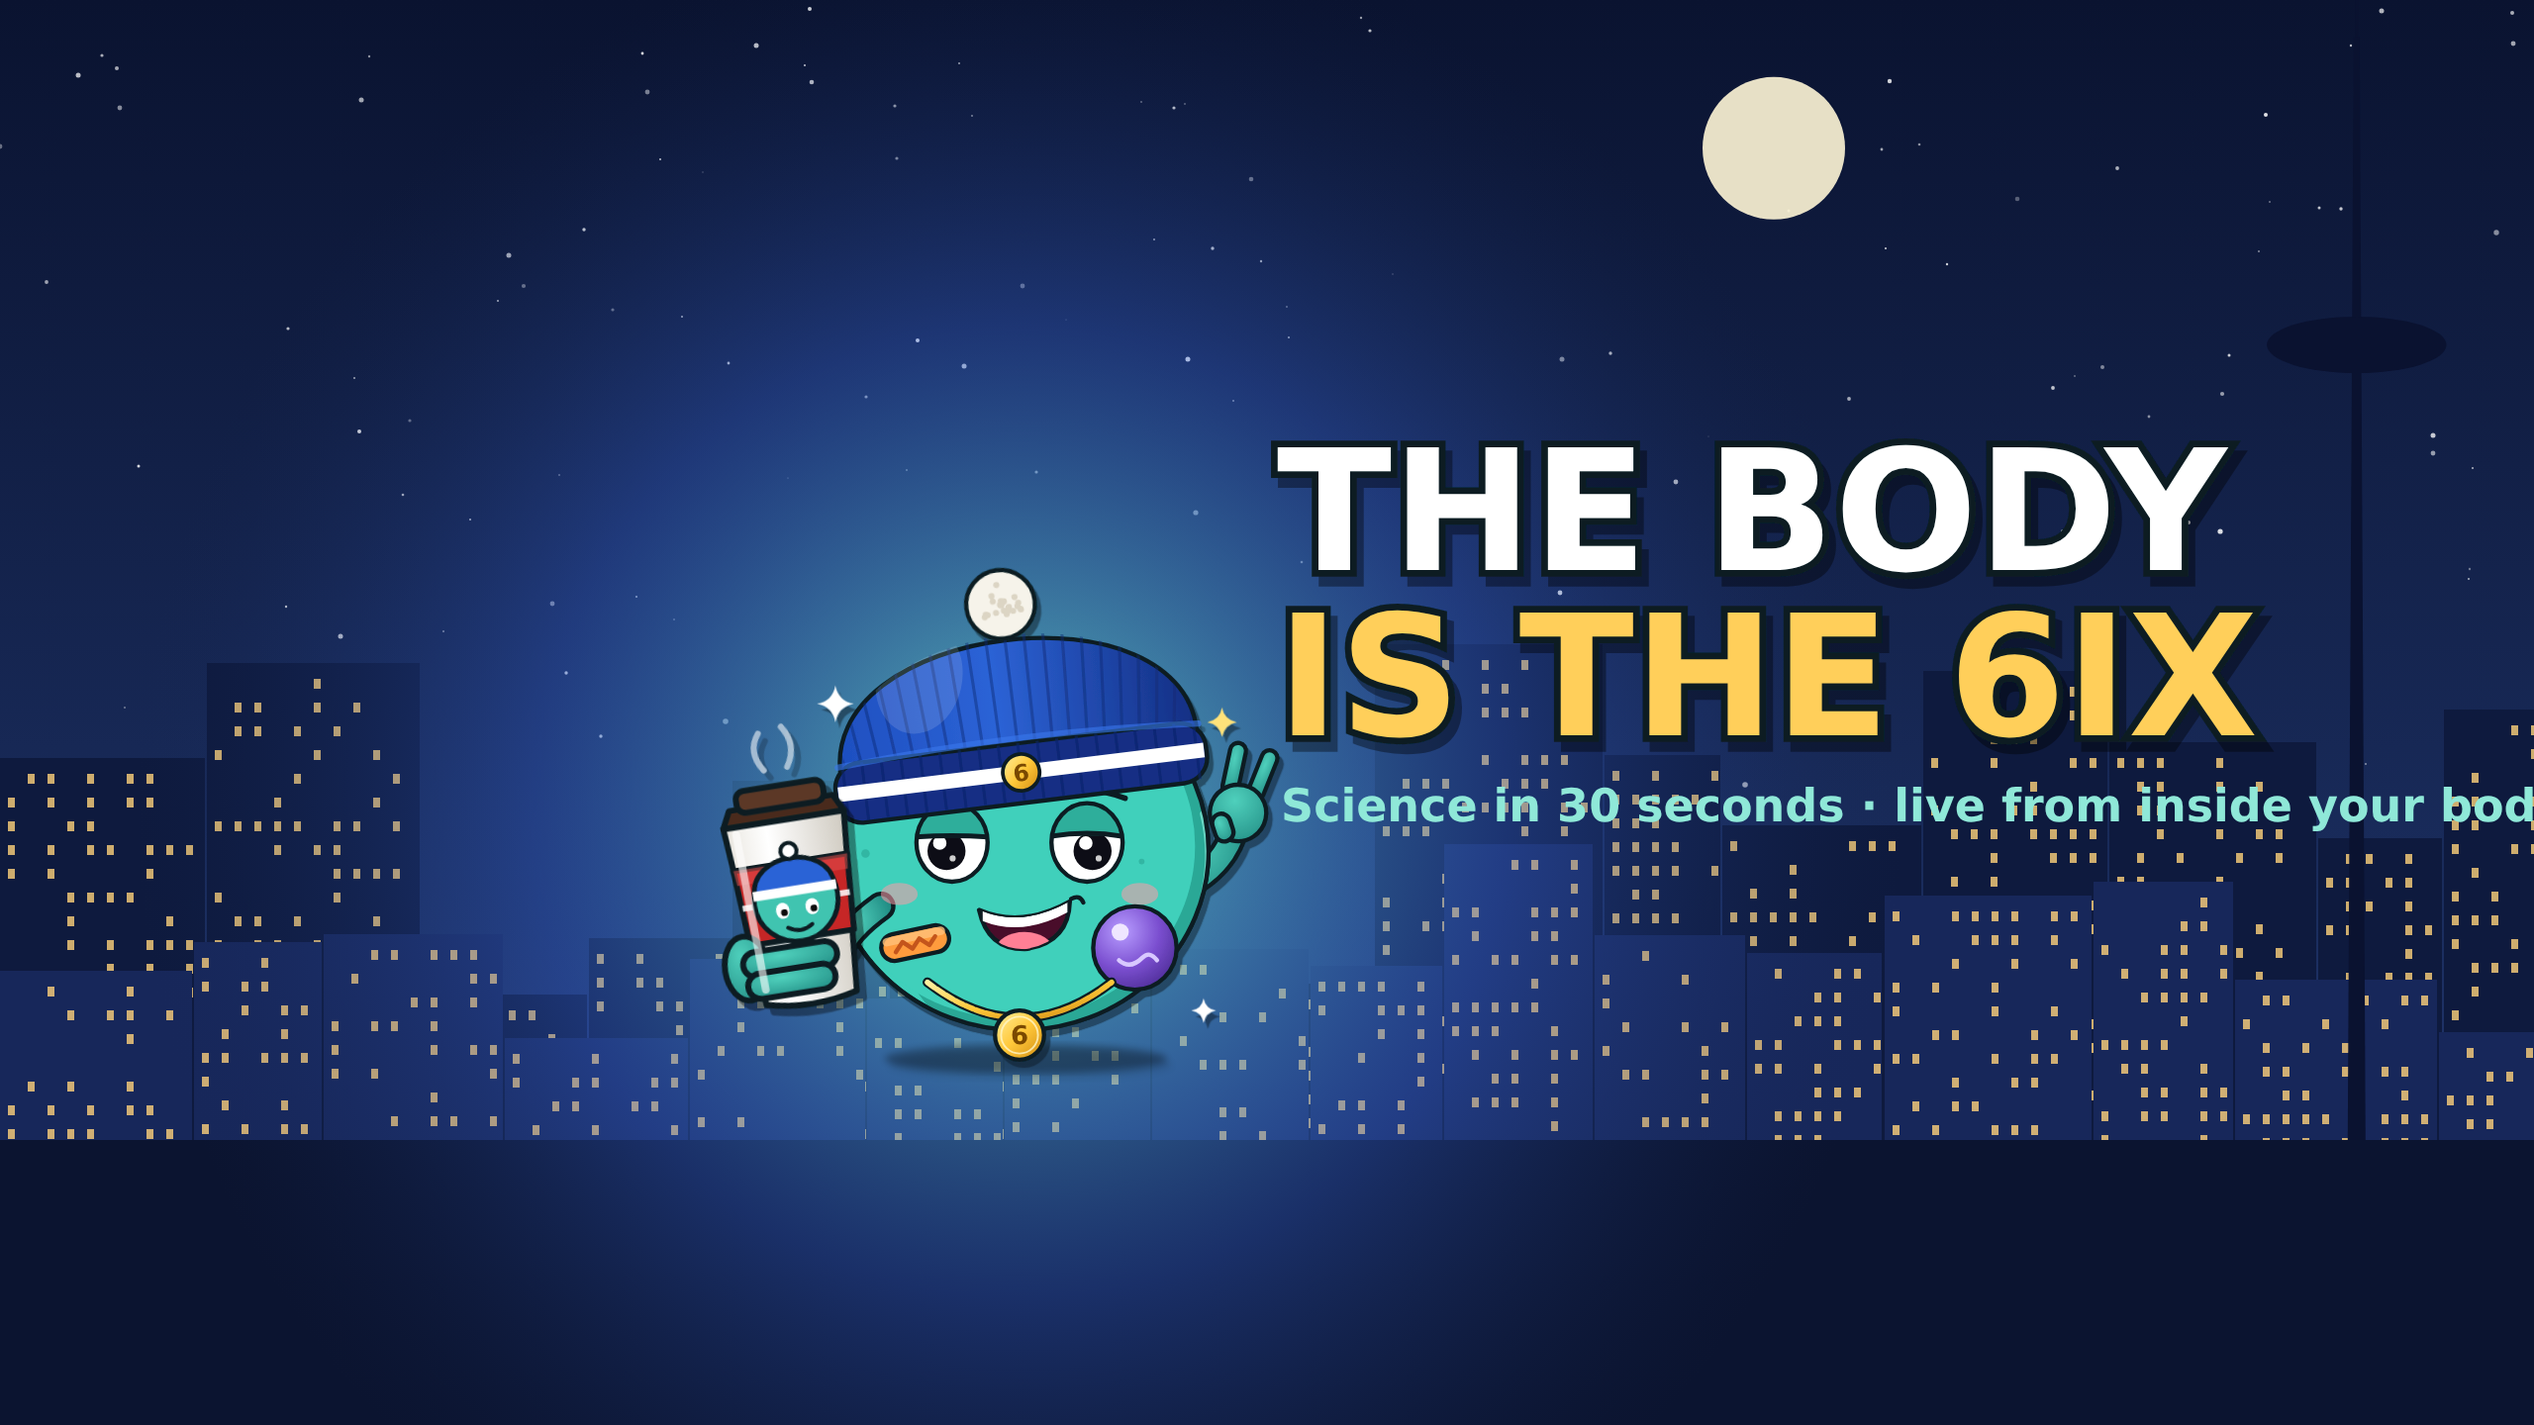
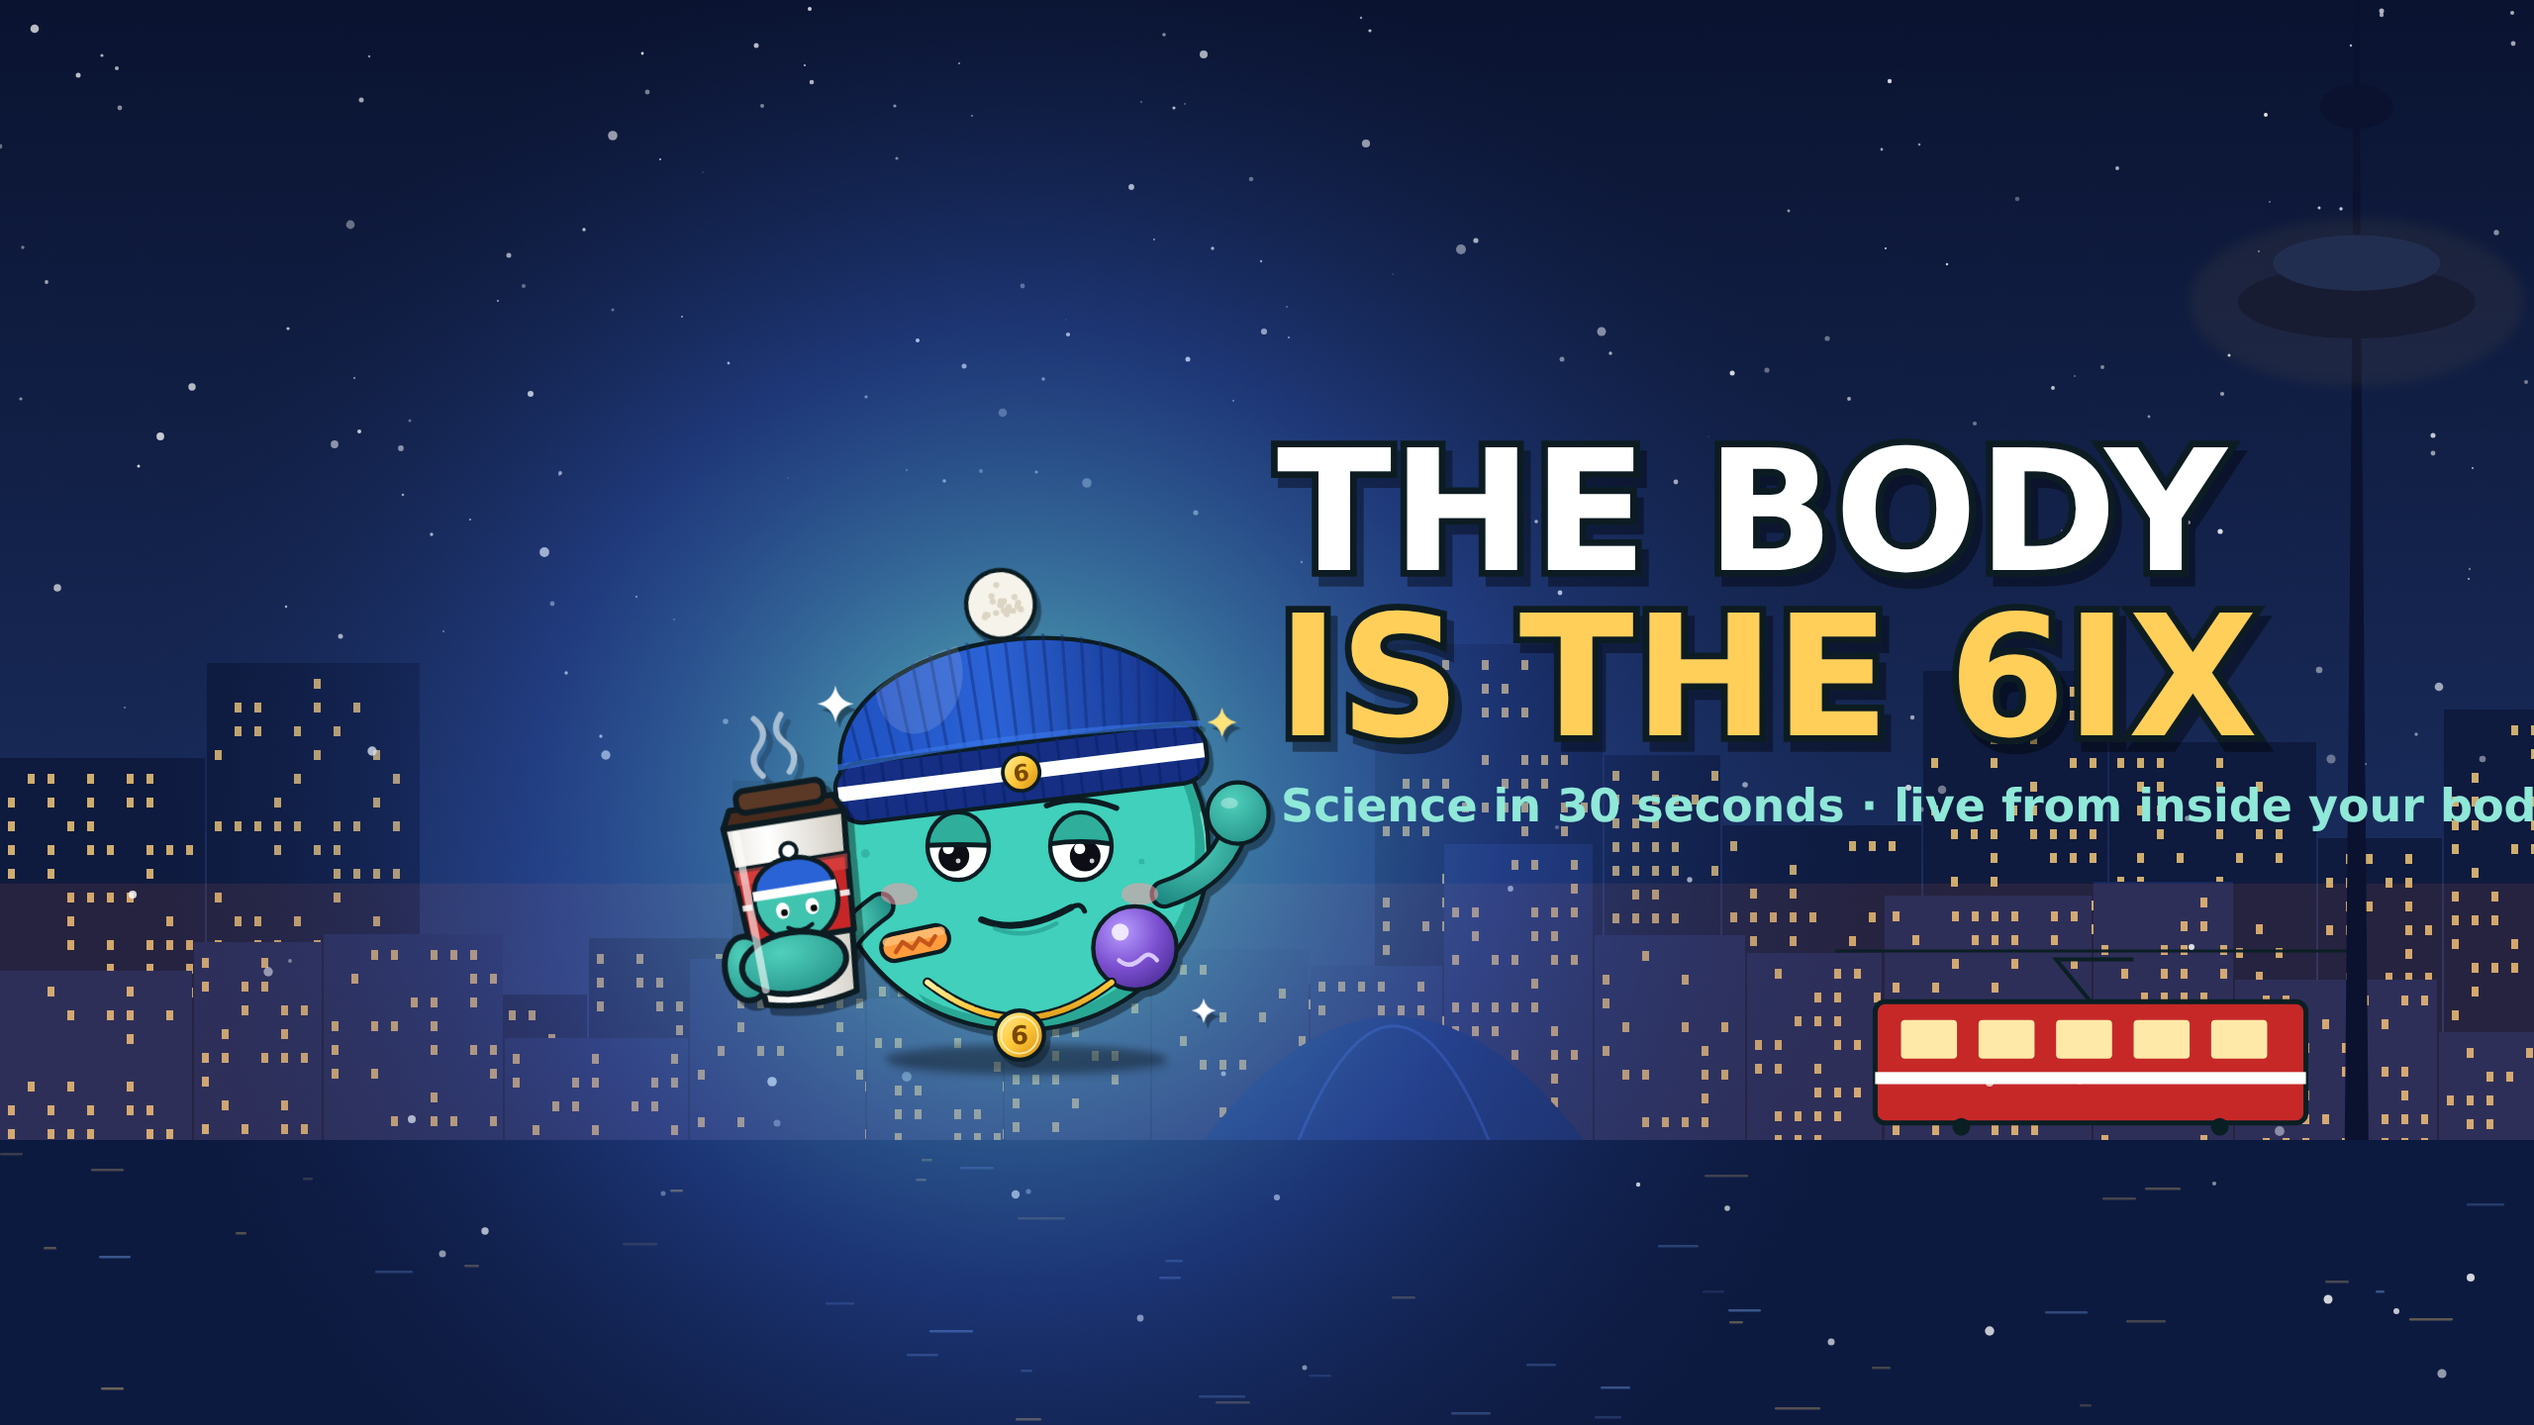
Rebrand v2.2: no fingers, calmer smirk, Toronto skyline (CN Tower, dome, streetcar, lake, snow)
Claude-Session: https://claude.ai/code/session_01YLZ2csSozvptdvtP7YVaK8

diff --git a/studio/branding/rebrand-v2/cyto2d.js b/studio/branding/rebrand-v2/cyto2d.js
@@ -21,16 +21,16 @@ const O='stroke="#0a1f24" stroke-width="7" stroke-linejoin="round" stroke-lineca
 function sparkle(x,y,r,c='#fff'){return `<path d="M${x} ${y-r} Q${x+r*.15} ${y-r*.15} ${x+r} ${y} Q${x+r*.15} ${y+r*.15} ${x} ${y+r} Q${x-r*.15} ${y+r*.15} ${x-r} ${y} Q${x-r*.15} ${y-r*.15} ${x} ${y-r}Z" fill="${c}"/>`}
 function eye(x,side){ // side -1 left, 1 right
  const id='e'+(side<0?'L':'R');
- return `<g transform="translate(${x},-14)">
- <clipPath id="${id}"><ellipse rx="58" ry="64"/></clipPath>
- <ellipse rx="58" ry="64" fill="#fff"/>
+ return `<g transform="translate(${x},-8)">
+ <clipPath id="${id}"><ellipse rx="50" ry="55"/></clipPath>
+ <ellipse rx="50" ry="55" fill="#fff"/>
  <g clip-path="url(#${id})">
-  <circle cx="${side*9}" cy="14" r="31" fill="#0b0b12"/><circle cx="${side*9-11}" cy="1" r="11" fill="#fff"/><circle cx="${side*9+10}" cy="26" r="5" fill="#fff" opacity=".8"/>
-  <path d="M-70 -80 L70 -80 L70 -6 Q0 -${14+side*4} -70 -6Z" fill="#2fae9b"/>
-  <path d="M-70 -8 Q0 ${-18-side*4} 70 -8" fill="none" stroke="#0a1f24" stroke-width="8"/>
+  <circle cx="${side*7}" cy="16" r="25" fill="#0b0b12"/><circle cx="${side*7-9}" cy="4" r="9" fill="#fff"/><circle cx="${side*9+9}" cy="24" r="4" fill="#fff" opacity=".8"/>
+  <path d="M-70 -80 L70 -80 L70 2 Q0 ${-8-side*5} -70 2Z" fill="#2fae9b"/>
+  <path d="M-70 0 Q0 ${-10-side*5} 70 0" fill="none" stroke="#0a1f24" stroke-width="8"/>
  </g>
- <ellipse rx="58" ry="64" fill="none" ${O}/>
- <path d="M-60 -78 Q0 ${side<0?-112:-96} 62 ${side<0?-84:-72}" fill="none" stroke="#0a1f24" stroke-width="9" stroke-linecap="round"/>
+ <ellipse rx="50" ry="55" fill="none" ${O}/>
+ <path d="M-56 -66 Q0 ${side<0?-98:-86} 58 ${side<0?-72:-62}" fill="none" stroke="#0a1f24" stroke-width="9" stroke-linecap="round"/>
 </g>`}
 function cup(){return `<g transform="translate(-362,92) rotate(-9) scale(1.38)" filter="url(#cut)">
  <path d="M-72 -105 L72 -105 L54 108 Q0 122 -54 108Z" fill="url(#cupw)" ${O}/>
@@ -39,12 +39,12 @@ function cup(){return `<g transform="translate(-362,92) rotate(-9) scale(1.38)" 
  <rect x="-64" y="-12" width="128" height="7" fill="#fff" opacity=".85"/>
  <path d="M-62 -125 L62 -125 L72 -105 L-72 -105Z" fill="#4a2c1f" ${O}/>
  <rect x="-52" y="-146" width="104" height="26" rx="10" fill="#5c3827" ${O}/>
- <path d="M-14 -166 Q-30 -190 -14 -210 M14 -166 Q30 -190 14 -214" fill="none" stroke="#fff" stroke-width="7" stroke-linecap="round" opacity=".55"/>
+ <path d="M-16 -160 q-16 -18 0 -34 q16 -16 0 -34 M16 -160 q16 -18 0 -34 q-16 -16 0 -34" fill="none" stroke="#fff" stroke-width="7" stroke-linecap="round" opacity=".55"/>
  <g transform="translate(0,-10) scale(.8)"><circle r="62" fill="#3fc4b0" ${O}/>
   <path d="M-60 -12 C-60 -78 60 -78 60 -12Z" fill="#2c63d6" ${O}/><rect x="-62" y="-20" width="124" height="14" fill="#fff"/><circle cy="-72" r="12" fill="#fff" stroke="#0a1f24" stroke-width="6"/>
   <ellipse cx="-22" cy="14" rx="10" ry="12" fill="#fff"/><ellipse cx="22" cy="14" rx="10" ry="12" fill="#fff"/><circle cx="-20" cy="17" r="5" fill="#111"/><circle cx="24" cy="17" r="5" fill="#111"/>
   <path d="M-18 40 Q0 52 18 40" fill="none" stroke="#0a1f24" stroke-width="6" stroke-linecap="round"/></g>
- <g ${O} fill="url(#skinArm)"><ellipse cx="-70" cy="62" rx="26" ry="38"/><rect x="-74" y="44" width="112" height="30" rx="15"/><rect x="-72" y="70" width="104" height="30" rx="15"/></g>
+ <g ${O} fill="url(#skinArm)"><ellipse cx="-70" cy="62" rx="26" ry="38"/><ellipse cx="-14" cy="64" rx="62" ry="36"/></g>
  <path d="M-58 -96 L-52 90" stroke="#fff" stroke-width="9" stroke-linecap="round" opacity=".6"/>
 </g>`}
 function cyto(){
@@ -56,9 +56,6 @@ function cyto(){
  let pom=''; for(let i=0;i<24;i++){const a=rnd()*6.28,r=rnd()*34;pom+=`<circle cx="${(Math.cos(a)*r).toFixed(0)}" cy="${(Math.sin(a)*r).toFixed(0)}" r="5" fill="#dcd5c4"/>`}
  return `<g filter="url(#cut)">
  <ellipse cx="10" cy="338" rx="230" ry="24" fill="#000" opacity=".3" filter="url(#soft)"/>
- <!-- raised peace-sign arm (viewer right) -->
- <path d="M236 70 Q330 40 352 -40" fill="none" stroke="#0a1f24" stroke-width="48" stroke-linecap="round"/><path d="M236 70 Q330 40 352 -40" fill="none" stroke="url(#skinArm)" stroke-width="34" stroke-linecap="round"/>
- <g transform="translate(356,-62) rotate(12)"><rect x="-34" y="-112" width="26" height="86" rx="13" fill="url(#skinArm)" ${O}/><rect x="6" y="-112" width="26" height="86" rx="13" fill="url(#skinArm)" ${O} transform="rotate(10 19 -26)"/><circle r="46" fill="url(#skinArm)" ${O}/><rect x="-46" y="-8" width="30" height="46" rx="15" fill="url(#skinArm)" ${O} transform="rotate(-30)"/></g>
  <!-- body -->
  <ellipse rx="308" ry="292" fill="#3fd0bb" ${O}/>
  <g clip-path="url(#bodyclip2)">
@@ -72,15 +69,17 @@ function cyto(){
   ${spots}
  </g>
  <ellipse rx="308" ry="292" fill="none" ${O}/>
+ <!-- raised arm (front) (viewer right) -->
+ <path d="M236 70 Q330 40 352 -40" fill="none" stroke="#0a1f24" stroke-width="48" stroke-linecap="round"/><path d="M236 70 Q330 40 352 -40" fill="none" stroke="url(#skinArm)" stroke-width="34" stroke-linecap="round"/>
+ <g transform="translate(356,-62)"><circle r="50" fill="url(#skinArm)" ${O}/><ellipse cx="-14" cy="-16" rx="14" ry="9" fill="#fff" opacity=".35"/></g>
  <!-- left arm (to cup) -->
  <path d="M-226 90 Q-282 130 -296 170" fill="none" stroke="#0a1f24" stroke-width="48" stroke-linecap="round"/><path d="M-226 90 Q-282 130 -296 170" fill="none" stroke="url(#skinArm)" stroke-width="34" stroke-linecap="round"/>
- ${eye(-110,-1)}${eye(110,1)}
+ ${eye(-100,-1)}${eye(100,1)}
  <ellipse cx="-196" cy="70" rx="30" ry="18" fill="#ff9aa8" opacity=".55"/><ellipse cx="196" cy="70" rx="30" ry="18" fill="#ff9aa8" opacity=".55"/>
  <!-- smirk -->
- <clipPath id="mo"><path d="M-66 96 Q4 126 82 82 Q80 150 8 160 Q-52 160 -66 96Z"/></clipPath>
- <path d="M-66 96 Q4 126 82 82 Q80 150 8 160 Q-52 160 -66 96Z" fill="#4a0f2b" ${O}/>
- <g clip-path="url(#mo)"><ellipse cx="8" cy="160" rx="46" ry="28" fill="#ff7f95"/><path d="M-60 98 Q4 124 78 84 L78 100 Q4 140 -60 114Z" fill="#fff"/></g>
- <path d="M84 78 Q98 70 104 84" fill="none" stroke="#0a1f24" stroke-width="7" stroke-linecap="round"/>
+ <path d="M-62 112 Q0 138 84 92" fill="none" stroke="#0a1f24" stroke-width="11" stroke-linecap="round"/>
+ <path d="M84 92 Q100 82 106 98" fill="none" stroke="#0a1f24" stroke-width="8" stroke-linecap="round"/>
+ <path d="M-40 126 Q10 146 60 118" fill="none" stroke="#1f8f86" stroke-width="7" stroke-linecap="round" opacity=".55"/>
  <!-- bandage -->
  <g transform="translate(-170,150) rotate(-12)"><rect x="-56" y="-22" width="112" height="44" rx="22" fill="#ff9b3d" ${O}/><rect x="-52" y="-18" width="104" height="14" rx="7" fill="#ffc07a" opacity=".8"/><path d="M-34 8 L-20 -6 L-6 8 L8 -6 L22 8 L34 -4" fill="none" stroke="#c4541a" stroke-width="7" stroke-linecap="round" stroke-linejoin="round"/></g>
  <!-- nucleus -->
@@ -105,24 +104,46 @@ function cyto(){
 function skyline(w,h,base,seed){let s=seed;const r=()=>(s=(s*16807)%2147483647)/2147483647;let o='';
  o+=`<rect width="${w}" height="${h}" fill="url(#sky)"/>`;
  for(let i=0;i<130;i++) o+=`<circle cx="${(r()*w).toFixed(0)}" cy="${(r()*base*0.7).toFixed(0)}" r="${(r()*2.2+.6).toFixed(1)}" fill="#fff" opacity="${(.3+r()*.6).toFixed(2)}"/>`;
- if(w>1200) o+=`<circle cx="${w*0.7}" cy="${base*0.13}" r="${Math.min(w,h)*0.05}" fill="#fff6d6" opacity=".9"/>`;
+ 
  for(let layer=0;layer<2;layer++){let x=-20;while(x<w){const bw=w*(0.04+r()*0.05),bh=h*(0.1+r()*0.25)*(layer?.7:1);
   o+=`<rect x="${x.toFixed(0)}" y="${(base-bh).toFixed(0)}" width="${bw.toFixed(0)}" height="${(h-base+bh).toFixed(0)}" fill="${layer?'#17275a':'#0e1a3e'}"/>`;
   for(let wy=base-bh+16;wy<base;wy+=24)for(let wx=x+8;wx<x+bw-8;wx+=20)if(r()>.6)o+=`<rect x="${wx.toFixed(0)}" y="${wy.toFixed(0)}" width="7" height="10" fill="#ffd27a" opacity=".8"/>`;
   x+=bw+2}}
  return o}
-function tower(x,base,h){return `<path d="M${x-9} ${base} L${x-3} ${base-h*0.86} L${x+3} ${base-h*0.86} L${x+9} ${base}Z" fill="#0a1230"/><ellipse cx="${x}" cy="${base-h*0.62}" rx="${h*0.07}" ry="${h*0.022}" fill="#0a1230"/><path d="M${x} ${base-h*0.86} L${x} ${base-h}" stroke="#0a1230" stroke-width="3"/><circle cx="${x}" cy="${base-h}" r="3" fill="#ff4a4a"/>`}
+function tower_old(x,base,h){return `<path d="M${x-9} ${base} L${x-3} ${base-h*0.86} L${x+3} ${base-h*0.86} L${x+9} ${base}Z" fill="#0a1230"/><ellipse cx="${x}" cy="${base-h*0.62}" rx="${h*0.07}" ry="${h*0.022}" fill="#0a1230"/><path d="M${x} ${base-h*0.86} L${x} ${base-h}" stroke="#0a1230" stroke-width="3"/><circle cx="${x}" cy="${base-h}" r="3" fill="#ff4a4a"/>`}
+
+function tower(x,base,h){return `<path d="M${x-12} ${base} L${x-4} ${base-h*0.62} L${x+4} ${base-h*0.62} L${x+12} ${base}Z" fill="#0a1230"/>
+ <path d="M${x-4} ${base-h*0.62} L${x-2} ${base-h*0.95} L${x+2} ${base-h*0.95} L${x+4} ${base-h*0.62}Z" fill="#0a1230"/>
+ <ellipse cx="${x}" cy="${base-h*0.6}" rx="${h*0.085}" ry="${h*0.026}" fill="#0a1230"/><ellipse cx="${x}" cy="${base-h*0.628}" rx="${h*0.06}" ry="${h*0.02}" fill="#16254f"/>
+ <ellipse cx="${x}" cy="${base-h*0.74}" rx="${h*0.026}" ry="${h*0.016}" fill="#0a1230"/>
+ <path d="M${x} ${base-h*0.95} L${x} ${base-h}" stroke="#0a1230" stroke-width="3"/><circle cx="${x}" cy="${base-h}" r="3.5" fill="#ff4a4a"/>
+ <ellipse cx="${x}" cy="${base-h*0.6}" rx="${h*0.12}" ry="${h*0.06}" fill="#ffcf5a" opacity=".05" filter="url(#soft)"/>`}
+function extras(w,h,base,withCar,snowSeed){let s=snowSeed;const r=()=>(s=(s*16807)%2147483647)/2147483647;let o='';
+ // horizon glow
+ o+=`<rect y="${base-h*0.18}" width="${w}" height="${h*0.18}" fill="#ff7a59" opacity=".10"/>`;
+ // stadium dome
+ const dx=w*(withCar?0.55:0.2), dr=w*(withCar?0.075:0.09);
+ o+=`<path d="M${dx-dr} ${base} Q${dx} ${base-dr*1.3} ${dx+dr} ${base}Z" fill="#1b2d66"/><path d="M${dx-dr*.5} ${base} Q${dx} ${base-dr*1.2} ${dx+dr*.5} ${base}" fill="none" stroke="#2b4590" stroke-width="3"/>`;
+ // lake
+ o+=`<rect y="${base}" width="${w}" height="${h-base}" fill="#0d1a40"/>`;
+ for(let i=0;i<46;i++){const x=r()*w,y=base+6+r()*(h-base-12),l=8+r()*40;o+=`<rect x="${x.toFixed(0)}" y="${y.toFixed(0)}" width="${l.toFixed(0)}" height="2.5" rx="1.2" fill="${r()>.5?'#ffd27a':'#7fb0ff'}" opacity="${(.12+r()*.28).toFixed(2)}"/>`}
+ if(withCar){const cx=w*0.74,cy=base-h*0.012,cw=w*0.17,ch=h*0.085;
+  o+=`<g><rect x="${cx}" y="${cy-ch}" width="${cw}" height="${ch}" rx="10" fill="#c62828" stroke="#0a1f24" stroke-width="5"/><rect x="${cx}" y="${cy-ch*0.42}" width="${cw}" height="${ch*0.1}" fill="#fff"/>`;
+  for(let i=0;i<5;i++) o+=`<rect x="${cx+cw*0.06+i*cw*0.18}" y="${cy-ch*0.85}" width="${cw*0.13}" height="${ch*0.32}" rx="4" fill="#ffe9a8"/>`;
+  o+=`<path d="M${cx+cw*0.5} ${cy-ch} L${cx+cw*0.42} ${cy-ch*1.35} L${cx+cw*0.6} ${cy-ch*1.35}" stroke="#0a1f24" stroke-width="4" fill="none"/><path d="M${cx-40} ${cy-ch*1.42} H${cx+cw+60}" stroke="#0a1f24" stroke-width="3"/><circle cx="${cx+cw*0.2}" cy="${cy+4}" r="9" fill="#0a1f24"/><circle cx="${cx+cw*0.8}" cy="${cy+4}" r="9" fill="#0a1f24"/></g>`}
+ // snow
+ for(let i=0;i<90;i++) o+=`<circle cx="${(r()*w).toFixed(0)}" cy="${(r()*h).toFixed(0)}" r="${(1.6+r()*3.4).toFixed(1)}" fill="#fff" opacity="${(.35+r()*.5).toFixed(2)}"/>`;
+ return o}
 // PFP 1000x1000
 const pfp=`<svg xmlns="http://www.w3.org/2000/svg" width="1000" height="1000" viewBox="0 0 1000 1000">${defs}
  <clipPath id="circ"><circle cx="500" cy="500" r="486"/></clipPath>
- <g clip-path="url(#circ)">${skyline(1000,1000,780,3)}${tower(840,780,540)}
- <rect y="760" width="1000" height="240" fill="#0b1430"/>
+ <g clip-path="url(#circ)">${skyline(1000,1000,780,3)}${extras(1000,1000,780,false,17)}${tower(850,780,700)}
  <circle cx="520" cy="500" r="470" fill="url(#glow)"/><g transform="translate(512,505) scale(.86)">${cyto()}</g></g>
  <circle cx="500" cy="500" r="486" fill="none" stroke="#ffcf5a" stroke-width="28"/></svg>`;
 fs.writeFileSync('pfp.svg',pfp);
 // COVER 1640x624 (FB) — character left-center, text right, safe middle
 const cover=(w,h,sc,cx,cy,tx,fs1,fs2)=>`<svg xmlns="http://www.w3.org/2000/svg" width="${w}" height="${h}" viewBox="0 0 ${w} ${h}">${defs}
- ${skyline(w,h,h*0.8,9)}${tower(w*0.93,h*0.8,h*0.9)}<rect y="${h*0.8}" width="${w}" height="${h*0.2}" fill="#0b1430"/>
+ ${skyline(w,h,h*0.8,9)}${extras(w,h,h*0.8,true,23)}${tower(w*0.93,h*0.8,h*0.98)}
  <circle cx="${cx}" cy="${cy-40}" r="${h*0.62}" fill="url(#glow)"/><g transform="translate(${cx},${cy}) scale(${sc})">${cyto()}</g>
  <g font-family="Arial Black, Impact, DejaVu Sans, sans-serif" font-weight="900">
   <text x="${tx}" y="${h*0.4}" font-size="${fs1}" fill="#fff" stroke="#0a1f24" stroke-width="${fs1*0.08}" paint-order="stroke" filter="url(#cut)">THE BODY</text>
@@ -131,3 +152,4 @@ const cover=(w,h,sc,cx,cy,tx,fs1,fs2)=>`<svg xmlns="http://www.w3.org/2000/svg" 
  </g></svg>`;
 fs.writeFileSync('cover.svg',cover(1640,624,.5,430,365,720,104,26));
 fs.writeFileSync('banner.svg',cover(2560,1440,.62,1030,860,1290,170,46));
+
